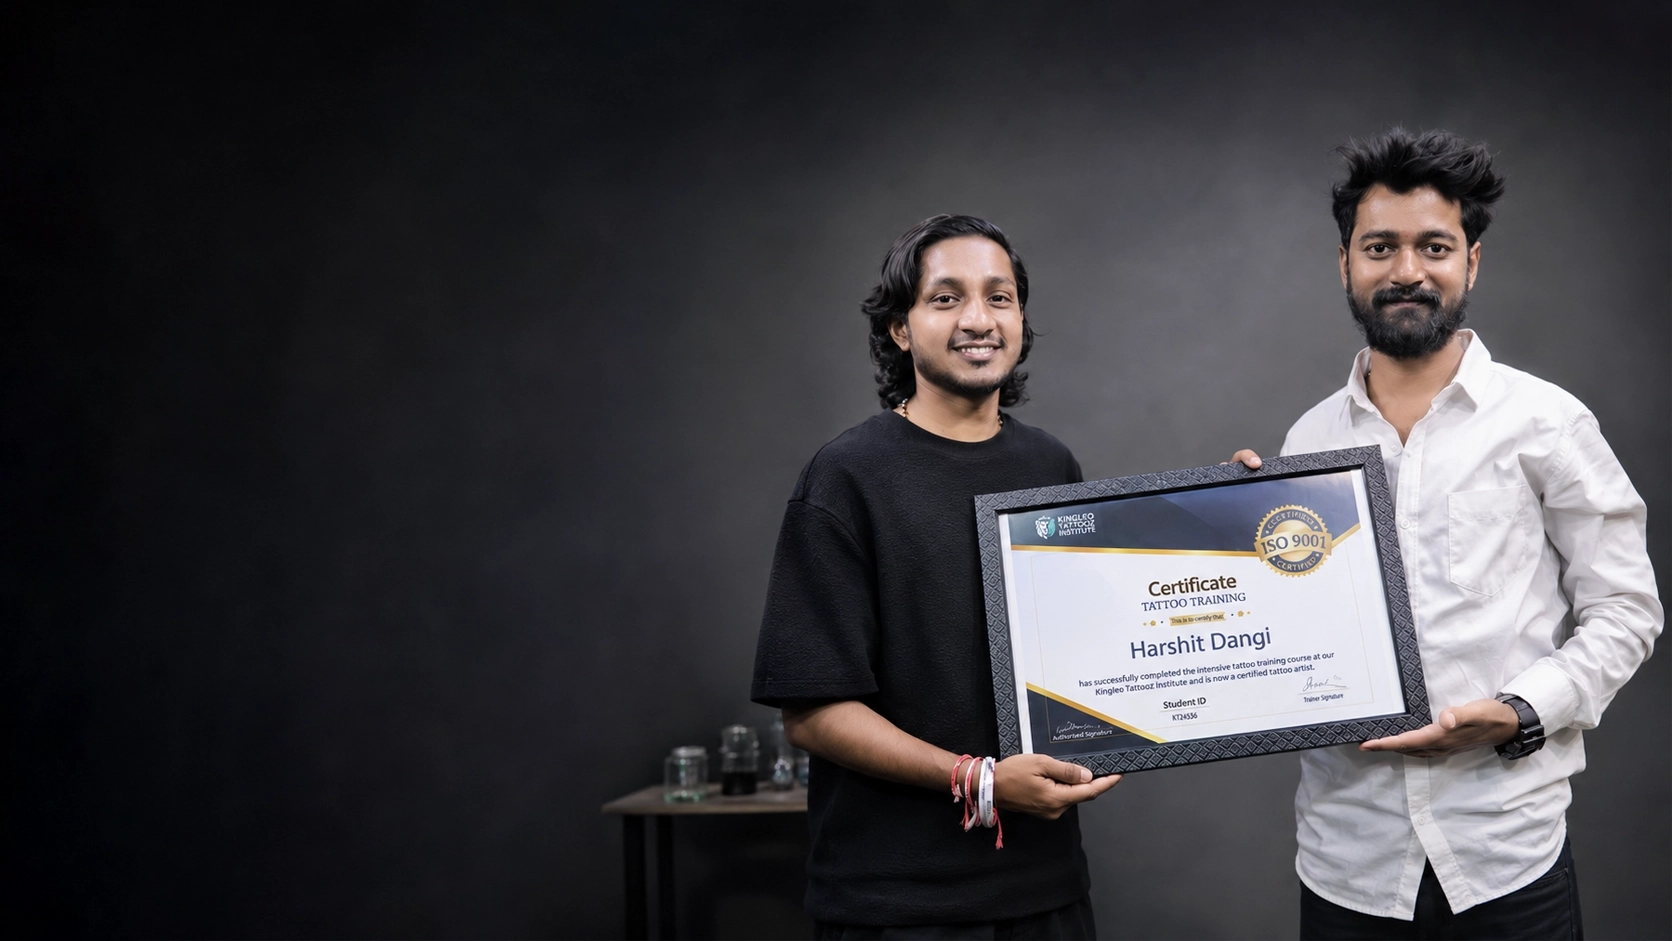
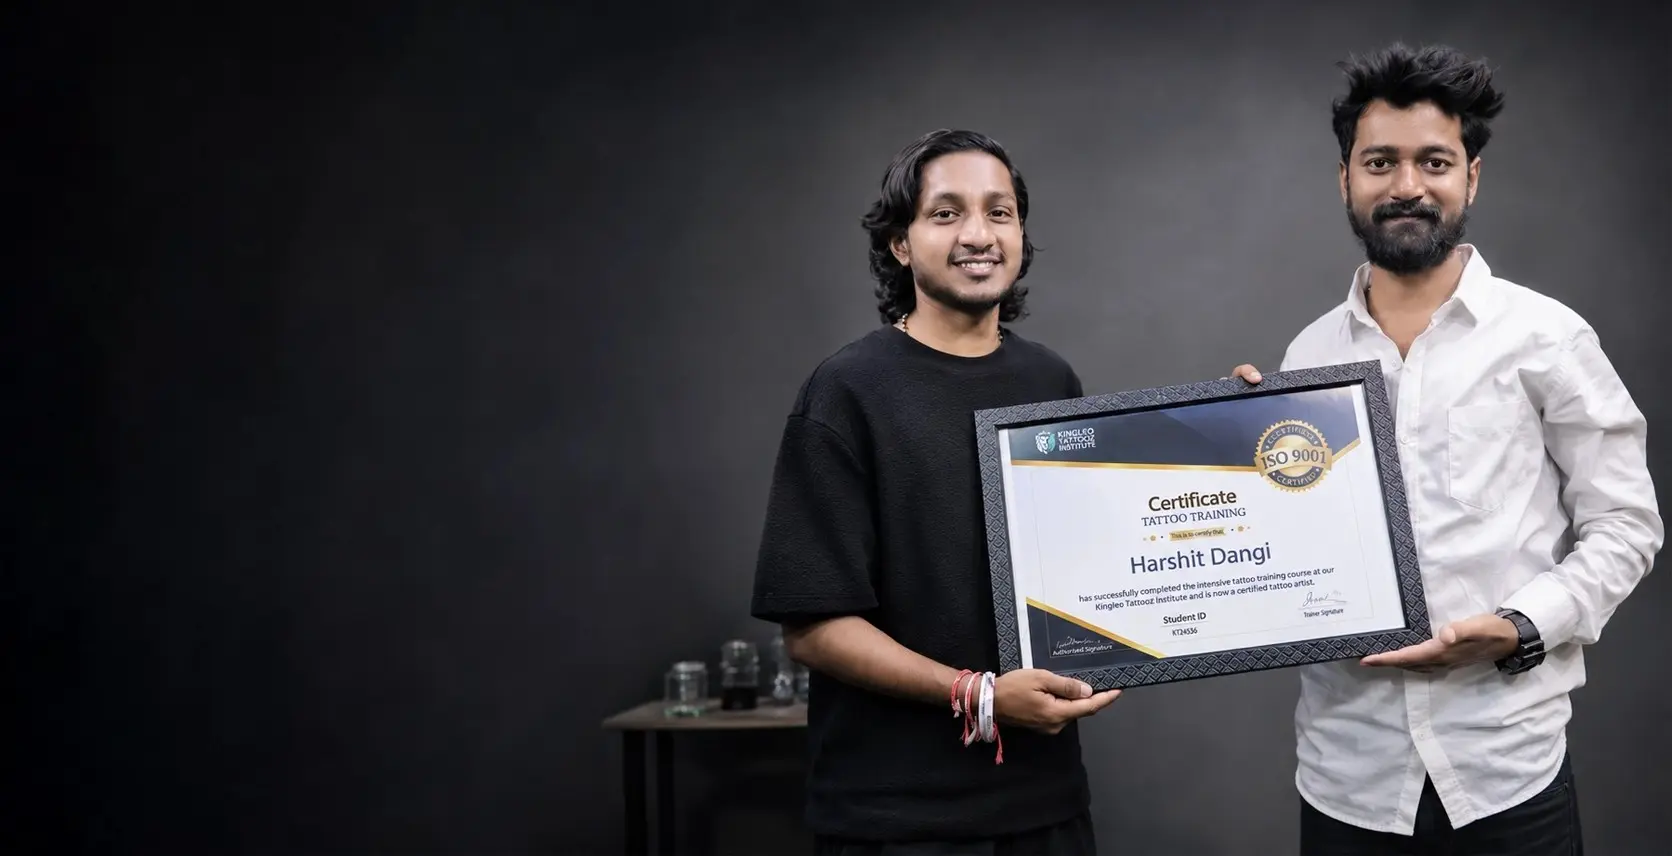
changes fixed

Changed region(s): [[0.3421, 0.0, 0.9952, 0.972], [0.4354, 0.6075, 0.4665, 0.6682], [0.4354, 0.5467, 0.4665, 0.5771]]

diff --git a/kingleo-institute/components/layout/MenuModal.jsx b/kingleo-institute/components/layout/MenuModal.jsx
@@ -3,30 +3,23 @@
 import React, { useEffect } from "react";
 import Link from "next/link";
 import { socialUrls } from "@/app/content/socialLinks";
-import {
-  ShieldCheck,
-  Droplets,
-  ArrowUpRight,
-  Phone,
-  Mail,
-} from "lucide-react";
+import { ArrowUpRight, Phone, Mail } from "lucide-react";
 import {
   InstagramIcon,
   FacebookIcon,
   YouTubeIcon,
   PinterestIcon,
+  LinkedInIcon,
 } from "@/components/ui/Icons";
 
 const DEFAULT_MENU_ITEMS = [
-  { label: "HOME", href: "#", active: true },
-  { label: "ABOUT US", href: "#about" },
-  { label: "EXPLORE OUR ARTS", href: "#arts" },
-  { label: "PIERCINGS", href: "#piercings" },
-  { label: "BLOGS", href: "#blogs" },
-  { label: "AFTERCARE", href: "#aftercare" },
-  { label: "TATTOO REMOVAL", href: "#removal" },
-  { label: "TATTOO EMI", href: "#emi" },
-  { label: "LEARN TATTOOING", href: "#courses", hasArrow: true },
+  { label: "HOME", href: "/" },
+  { label: "BLOG", href: "#" },
+  { label: "ALL COURSES", href: "/#courses" },
+  { label: "ONLINE LEARNING", href: "#" },
+  { label: "TEAM", href: "/#team" },
+  { label: "STUDENT LOAN", href: "/programs/easy-fee-payment" },
+  { label: "INTERNSHIP PROGRAM", href: "/programs/internship-and-career-support" },
 ];
 
 /**
@@ -37,13 +30,14 @@ export default function MenuModal({
   isOpen = false,
   onClose,
   menuItems = DEFAULT_MENU_ITEMS,
-  phoneNumbers = ["+91 95842 28615", "+91 70009 24824"],
-  email = "kingleotattooz@gmail.com",
+  phoneNumbers = ["+91 9343623234", "+91 9343623234"],
+  email = "kingleotattoozinstitute@gmail.com",
   socialLinks = [
     { name: "Instagram", href: socialUrls.instagram, icon: <InstagramIcon className="w-4 h-4 sm:w-[18px] sm:h-[18px]" /> },
     { name: "Facebook", href: socialUrls.facebook, icon: <FacebookIcon className="w-4 h-4 sm:w-[18px] sm:h-[18px]" /> },
     { name: "YouTube", href: socialUrls.youtube, icon: <YouTubeIcon className="w-4 h-4 sm:w-[18px] sm:h-[18px]" /> },
     { name: "Pinterest", href: socialUrls.pinterest, icon: <PinterestIcon className="w-4 h-4 sm:w-[18px] sm:h-[18px]" /> },
+    { name: "LinkedIn", href: socialUrls.linkedin, icon: <LinkedInIcon className="w-4 h-4 sm:w-[18px] sm:h-[18px]" /> },
   ],
 }) {
   // Lock background scroll when open
@@ -91,9 +85,6 @@ export default function MenuModal({
           {/* Left Column: Menu Links */}
           <div className="md:col-span-7 flex flex-col justify-between md:pr-8 md:border-r md:border-white/10">
             <div>
-              <span className="text-[11px] sm:text-xs font-bold tracking-[0.2em] text-zinc-400 uppercase block mb-3 sm:mb-4">
-                MENU
-              </span>
               <nav className="flex flex-col gap-1 sm:gap-1.5">
                 {menuItems.map((item, idx) => (
                   <Link
@@ -117,45 +108,17 @@ export default function MenuModal({
           </div>
 
           {/* Right Column: Sub-brands & Contact Information */}
-          <div className="md:col-span-5 flex flex-col justify-between gap-8 md:pl-2">
-            {/* Brand Badges with Lucide Icons */}
-            <div className="flex flex-col gap-3">
-              {/* TattooCare Card */}
-              <div className="flex items-center gap-3.5 p-3 rounded-lg bg-black/40 border border-white/20 hover:border-white/40 transition-colors">
-                <div className="w-10 h-10 rounded-lg bg-emerald-950/60 border border-emerald-500/30 flex items-center justify-center shrink-0">
-                  <ShieldCheck className="w-6 h-6 text-emerald-400" />
-                </div>
-                <div>
-                  <div className="text-[13px] sm:text-[14px] font-extrabold tracking-wider text-white">
-                    KINGLEO
-                  </div>
-                  <div className="text-xs sm:text-[13px] text-zinc-300 font-normal">
-                    TattooCare
-                  </div>
-                </div>
-              </div>
-
-              {/* Tattoo Butter Card */}
-              <div className="flex items-center gap-3.5 p-3 rounded-lg bg-black/40 border border-white/20 hover:border-white/40 transition-colors">
-                <div className="w-10 h-10 rounded-lg bg-zinc-900 border border-white/20 flex items-center justify-center shrink-0">
-                  <Droplets className="w-6 h-6 text-zinc-100" />
-                </div>
-                <div>
-                  <div className="text-[13px] sm:text-[14px] font-extrabold tracking-wider text-white">
-                    KINGLEO
-                  </div>
-                  <div className="text-xs sm:text-[13px] text-zinc-300 font-normal tracking-wide">
-                    TATTOO BUTTER
-                  </div>
-                </div>
-              </div>
-            </div>
+          <div className="md:col-span-5 flex flex-col gap-8 md:pl-2">
 
             {/* Contact Details */}
-            <div className="flex flex-col gap-3 pt-6 md:pt-10">
-              <span className="text-[11px] sm:text-xs font-bold tracking-[0.2em] text-zinc-400 uppercase">
+            <div className="flex flex-col gap-3">
+              <Link
+                href="/contact"
+                onClick={onClose}
+                className="text-[11px] sm:text-xs font-bold tracking-[0.2em] text-zinc-400 hover:text-white transition-colors uppercase w-fit"
+              >
                 CONTACT-US
-              </span>
+              </Link>
 
               <div className="flex items-start gap-3 text-xs sm:text-sm text-zinc-300">
                 <Phone className="w-4 h-4 text-zinc-400 mt-1 shrink-0" />
@@ -183,7 +146,7 @@ export default function MenuModal({
               </div>
 
               {/* Social Icons Row */}
-              <div className="flex items-center gap-4 pt-2">
+              <div className="flex items-center gap-4 pt-6">
                 {socialLinks.map((s, idx) => (
                   <a
                     key={idx}

diff --git a/kingleo-institute/components/programs/PiercingSection.jsx b/kingleo-institute/components/programs/PiercingSection.jsx
@@ -33,26 +33,37 @@ export default function PiercingSection({
           </p>
         )}
 
-        <div className="grid grid-cols-1 md:grid-cols-2 lg:grid-cols-3 gap-6 lg:gap-8 items-start">
+        <div className="grid grid-cols-1 md:grid-cols-2 lg:grid-cols-3 gap-6 lg:gap-8 items-stretch">
           {groups.map((group) => (
             <article
               key={group.title}
-              className="rounded-2xl border border-zinc-300 bg-white p-6 sm:p-8 hover:shadow-lg hover:border-zinc-400 transition-all duration-300"
+              className="group flex h-full w-full flex-col rounded-2xl border border-zinc-300 bg-white transition-all duration-300 hover:-translate-y-1 hover:border-black hover:shadow-xl"
             >
-              <h3 className="font-sans font-bold text-xl sm:text-2xl text-black">
+              {group.image && (
+                <div className="relative w-full aspect-[4/3] sm:aspect-[4/4] overflow-hidden rounded-xl">
+                  {/* eslint-disable-next-line @next/next/no-img-element */}
+                  <img
+                    src={group.image}
+                    alt={group.imageAlt || group.title}
+                    loading="lazy"
+                    className="absolute inset-0 h-full w-full object-cover transition-transform duration-500 group-hover:scale-105"
+                  />
+                </div>
+              )}
+
+              <h3 className=" px-4 sm:px-5 mt-6 font-sans font-bold text-2xl sm:text-[28px] leading-tight text-black">
                 {group.title}
               </h3>
-              <ul className="mt-5 flex flex-col gap-2.5">
+              {/* <span className="mt-2 block h-[2px] w-20 bg-black" /> */}
+
+              <ul className=" px-4 sm:px-5 mt-4 flex flex-1 flex-col">
                 {group.items.map((item) => (
                   <li
                     key={item}
-                    className="flex items-start gap-3 text-sm sm:text-[15px] text-neutral-700"
+                    className="flex items-center justify-between gap-1 py-1.5 text-sm sm:text-[15px] text-neutral-900 last:border-b-0"
                   >
-                    <span
-                      aria-hidden="true"
-                      className="mt-[0.55em] h-1.5 w-1.5 shrink-0 rounded-full bg-black"
-                    />
-                    {item}
+                    <span>{item}</span>
+                  
                   </li>
                 ))}
               </ul>

diff --git a/kingleo-institute/components/journey/ArtistJourneySection.jsx b/kingleo-institute/components/journey/ArtistJourneySection.jsx
@@ -48,11 +48,11 @@ export default function ArtistJourneySection({
       href: "https://wa.me/919343623234?text=Hi%20Kingleo%20Tattooz%2C%20I%20want%20to%20know%20more%20about%20the%20tattoo%20artist%20journey",
     },
   ],
-  highlights = [
-    "100% PRACTICAL",
-    "LIVE REAL SKIN",
-    "INDUSTRY DIPLOMA",
-  ],
+  // highlights = [
+  //   "100% PRACTICAL",
+  //   "LIVE REAL SKIN",
+  //   "INDUSTRY DIPLOMA",
+  // ],
   fixedBackground = true, // false: image scrolls with the section instead of staying fixed
   className = "",
 }) {
@@ -198,18 +198,6 @@ export default function ArtistJourneySection({
                   </Link>
                 );
               })}
-            </div>
-          )}
-
-          {/* Bottom Bullet Highlights */}
-          {highlights && highlights.length > 0 && (
-            <div className="flex flex-wrap items-center gap-x-4 sm:gap-x-6 gap-y-2 text-[11px] sm:text-xs md:text-[13px] font-semibold tracking-wider text-zinc-300 uppercase">
-              {highlights.map((highlight, idx) => (
-                <div key={idx} className="inline-flex items-center gap-2">
-                  <div className="w-2 h-2 rounded-full bg-white"></div>
-                  <span className="text-white text-[10px] md:text-[12px]" aria-hidden="true">{highlight}</span>
-                </div>
-              ))}
             </div>
           )}
 

diff --git a/kingleo-institute/app/content/home/hero.js b/kingleo-institute/app/content/home/hero.js
@@ -72,8 +72,8 @@ export const heroContent = {
 
   // Contact info
   contact: {
-    phones: ["+91 95842 28615", "+91 70009 24824"],
-    email: "kingleotattooz@gmail.com",
+    phones: ["+91 9343623234", "+91 9343623234"],
+    email: "kingleotattoozinstitute@gmail.com",
     whatsapp: "919343623234",
   },
 
@@ -85,14 +85,12 @@ export const heroContent = {
 
   // Navigation Menu links
   menuItems: [
-    { label: "HOME", href: "/", active: true },
-    { label: "ABOUT US", href: "#about" },
-    { label: "EXPLORE OUR ARTS", href: "#arts" },
-    { label: "PIERCINGS", href: "#piercings" },
-    { label: "BLOGS", href: "#blogs" },
-    { label: "AFTERCARE", href: "#aftercare" },
-    { label: "TATTOO REMOVAL", href: "#removal" },
-    { label: "TATTOO EMI", href: "#emi" },
-    { label: "LEARN TATTOOING", href: "#courses", hasArrow: true },
+    { label: "HOME", href: "/" },
+    { label: "BLOG", href: "#" }, // blog page not created yet
+    { label: "ALL COURSES", href: "/#courses" },
+    { label: "ONLINE LEARNING", href: "#" }, // page not created yet
+    { label: "TEAM", href: "/#team" },
+    { label: "STUDENT LOAN", href: "/programs/easy-fee-payment" },
+    { label: "INTERNSHIP PROGRAM", href: "/programs/internship-and-career-support" },
   ],
 };

diff --git a/kingleo-institute/app/content/programs/advanced-piercing-course.js b/kingleo-institute/app/content/programs/advanced-piercing-course.js
@@ -30,6 +30,7 @@ export const advancedPiercingCourseContent = {
     groups: [
       {
         title: "Ear Piercing",
+        image: "/programs/advanced-piercing-course/ear-piercing.webp",
         items: [
           "Lobe Piercing",
           "Upper Lobe Piercing",
@@ -48,6 +49,7 @@ export const advancedPiercingCourseContent = {
       },
       {
         title: "Facial Piercing",
+        image: "/programs/advanced-piercing-course/facial-piercing.webp",
         items: [
           "Labret Piercing",
           "Vertical Labret Piercing",
@@ -72,6 +74,7 @@ export const advancedPiercingCourseContent = {
       },
       {
         title: "Body Piercing",
+        image: "/programs/advanced-piercing-course/body-piercing.webp",
         items: [
           "Nipple Piercing",
           "Belly Piercing",

diff --git a/kingleo-institute/components/mentors/MentorsSection.jsx b/kingleo-institute/components/mentors/MentorsSection.jsx
@@ -47,7 +47,8 @@ export default function MentorsSection({
 
   return (
     <section
-      className={`w-full bg-white text-black pt-6 lg:pt-20 overflow-hidden select-none ${className}`.trim()}
+      id="team"
+      className={`w-full bg-white text-black pt-6 lg:pt-20 overflow-hidden select-none scroll-mt-20 ${className}`.trim()}
     >
       {/* Section Header: Uses Tagline (small heading), Heading, and Description components */}
       <div className="mx-auto max-w-7xl px-5 sm:px-8 mb-6 sm:mb-8 text-center flex flex-col items-center">

diff --git a/kingleo-institute/components/diploma/DiplomaSection.jsx b/kingleo-institute/components/diploma/DiplomaSection.jsx
@@ -73,7 +73,8 @@ export default function DiplomaSection({
 
   return (
     <section
-      className={`w-full bg-white text-black pt-12 lg:pt-20 overflow-hidden select-none ${className}`.trim()}
+      id="courses"
+      className={`w-full bg-white text-black pt-12 lg:pt-20 overflow-hidden select-none scroll-mt-20 ${className}`.trim()}
     >
       <div className="mx-auto max-w-7xl px-5 sm:px-8">
         {/* Section Header styled after FeatureSection */}

diff --git a/kingleo-institute/app/content/home/artistJourney.js b/kingleo-institute/app/content/home/artistJourney.js
@@ -36,9 +36,9 @@ export const artistJourneyContent = {
       href: "https://wa.me/919343623234?text=Hi%20Kingleo%20Tattooz%2C%20I%20want%20to%20know%20more%20about%20the%20tattoo%20artist%20journey",
     },
   ],
-  highlights: [
-    "100% PRACTICAL",
-    "LIVE REAL SKIN",
-    "INDUSTRY DIPLOMA",
-  ],
+  // highlights: [
+  //   "100% PRACTICAL",
+  //   "LIVE REAL SKIN",
+  //   "INDUSTRY DIPLOMA",
+  // ],
 };

diff --git a/kingleo-institute/app/content/programs/diploma-art-tattoo.js b/kingleo-institute/app/content/programs/diploma-art-tattoo.js
@@ -17,5 +17,6 @@ export const diplomaArtTattooContent = {
       mobile: "/programs/diploma-art-tattoo/mobile.webp",
       alt: "Tattoo artist working on a classical statue sleeve - Diploma in Tattoo Art",
     },
+    cardPosition:"right"
   },
 };
